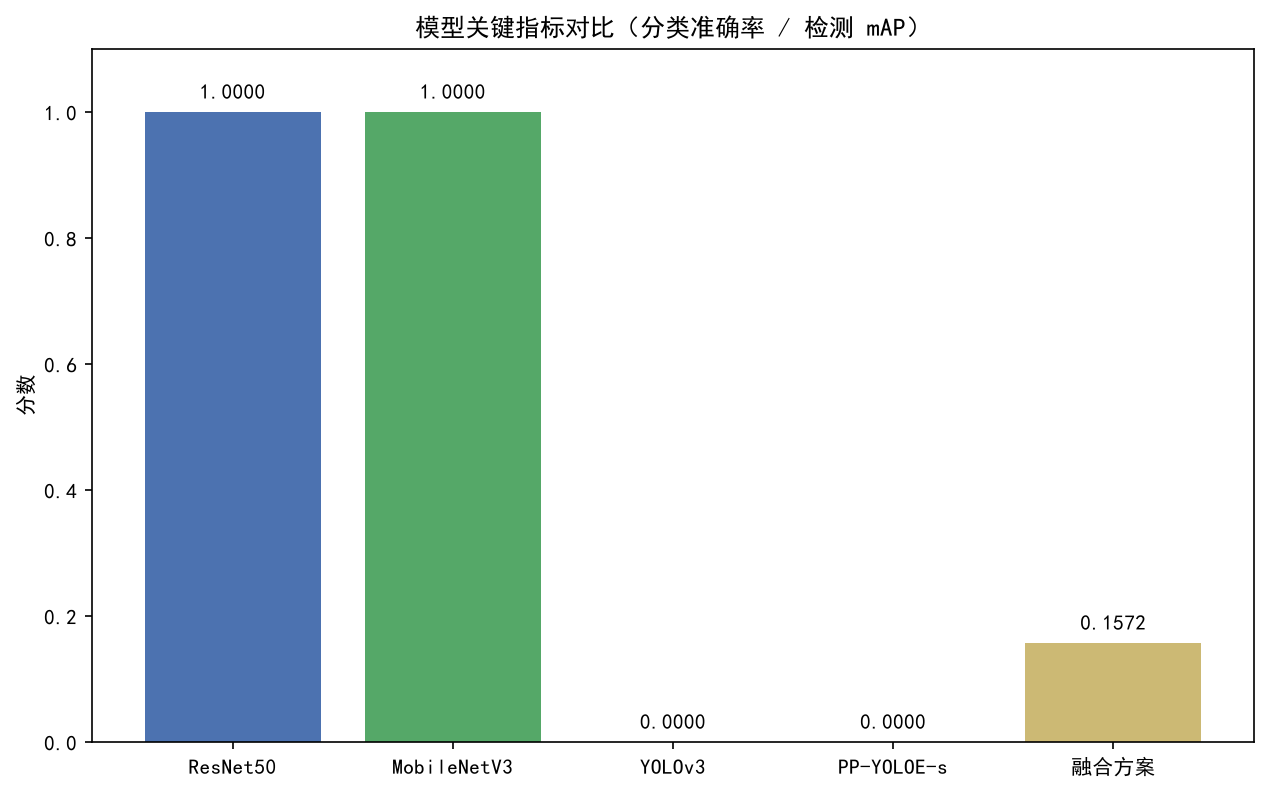
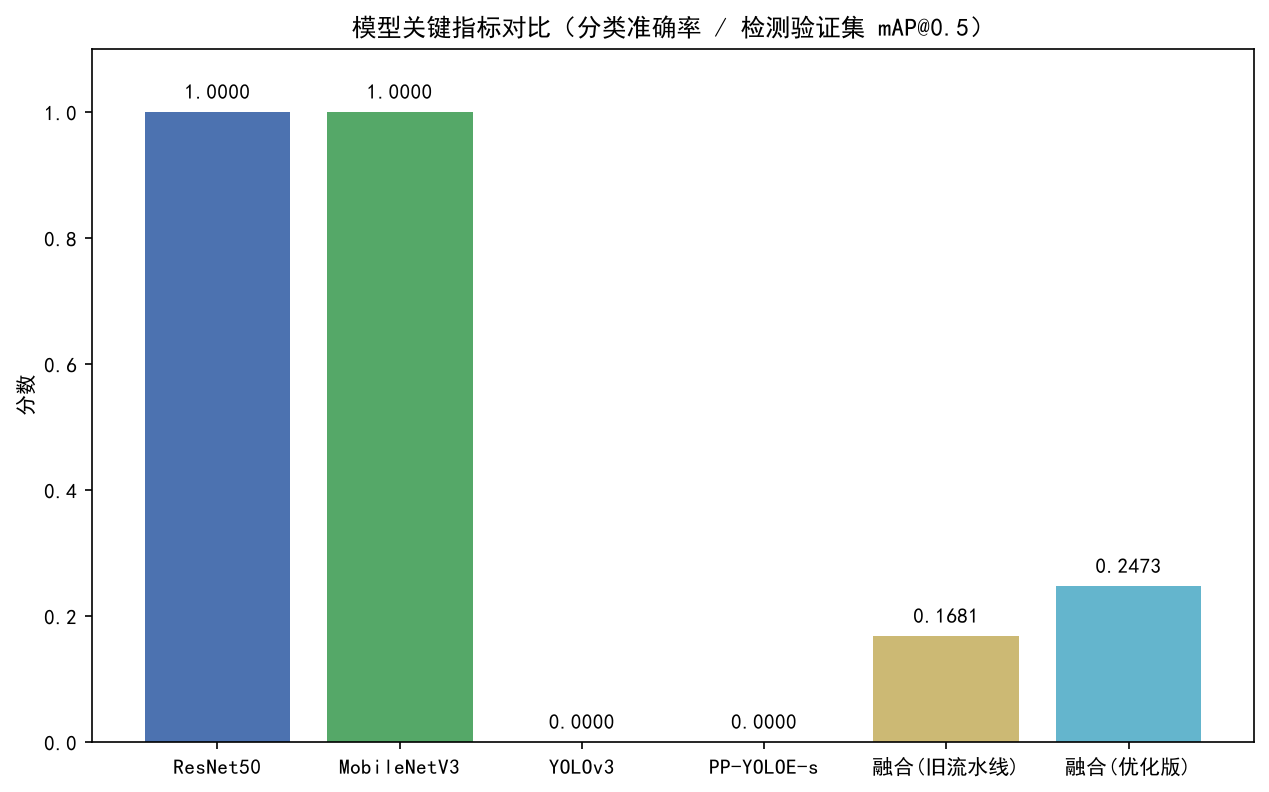
按实际情况修正文档与 D 的工具取数（README 状态与数字、汇总表/对比图读最新产物）
README.md（项目总览，改到与实际一致）：
- C 结果：测试集 mAP@0.5 0.1552 改为 0.2176、验证集 0.1681 改为 0.2473，每类 AP 与 P/R 同步更新，
  旧流水线数字保留作对照；补充 2026-09-16 对单阶段失败根因的复验（预训练主干 + Focal Loss 仍只有 0.0003）
- D 章节：原文「四个脚本仍为空」+「✅ 已完成」自相矛盾，现改为实际状态 ——
  log2table / plot_summary / run_all 已实装且实测可跑，metrics.py 仍是 NotImplementedError 接口骨架；
  并注明 B/C 的接口切换点目前还不能切（切过去会抛异常）
- 脚本用法：补上优化版（预训练主干 + GIoU + 128 输入）的训练与评估命令，以及 norm/in-size 必须与训练一致的注意事项
- 权重清单：补优化版权重 verifier_pre128_best / refiner_giou128_best 与三个中间版本
- 已知问题：按现状重写（列出已否决的 4 条方向、测试集已使用两次、D 的缺口范围）
- 文件数/工具数：42 改为 45、15 改为 21

src/tools/log2table.py（D 的文件，只改取数与格式）：
- 融合方案改为按「优化版测试集 -> 优化版验证集 -> 旧流水线测试集」优先级取数，
  原先只读 test_fuse_final.json，导致汇总表停留在旧的 0.1552
- mAP 格式化到 4 位小数，避免出现 1.651064110819423e-06 这类科学计数法

src/tools/plot_summary.py（D 的文件，只改取数）：
- 融合柱状图由 val_fuse.json（0.1572，第二轮基础参数）改为 val_fuse_pre128.json（0.2473），
  并保留旧流水线 val_fuse_final（0.1681）作对照

results/summary_table.csv、results/figures/summary_compare.png：按上述改动重新生成

diff --git a/src/tools/log2table.py b/src/tools/log2table.py
@@ -25,9 +25,11 @@ for model_name, filename in cls_files.items():
             data = json.load(f)
         params = data.get("num_params", "未知")
         acc = data.get("best_val_acc", "未知")
-        table.append(["分类", model_name, params, f"准确率 {acc}", "见权重说明", "B", "✅"])
+        acc_txt = f"准确率 {float(acc):.4f}" if isinstance(acc, (int, float)) else f"准确率 {acc}"
+        table.append(["分类", model_name, params, acc_txt, "见权重说明", "B", "✅"])
 
 # -------- 2. 抄 C 的检测账本 --------
+# 单阶段两个网络都是失败基线（conf 分支学不出排序），验证集 mAP 约 0，如实标注。
 det_files = {
     "YOLOv3": "yolov3_train_summary.json",
     "PP-YOLOE-s": "ppyoloe_s_train_summary.json"
@@ -39,18 +41,30 @@ for model_name, filename in det_files.items():
             data = json.load(f)
         params = data.get("params_wan", "未知")
         map50 = data.get("best_val_map50", "未知")
-        table.append(["检测", model_name, params, f"mAP@0.5 {map50}", "—", "C", "❌ 失败"])
+        # 注意：这个值极小（如 1.65e-06），直接打印会变成科学计数法，格式化到 4 位更可读
+        map_txt = f"mAP@0.5 {float(map50):.4f}" if isinstance(map50, (int, float)) else f"mAP@0.5 {map50}"
+        table.append(["检测", model_name, params, map_txt, "—", "C", "❌ 失败"])
 
 # -------- 3. 抄 C 的融合方案账本 --------
-fuse_path = os.path.join(metrics_dir, "test_fuse_final.json")
-if not os.path.exists(fuse_path):
-    fuse_path = os.path.join(metrics_dir, "val_fuse.json")
-if os.path.exists(fuse_path):
-    with open(fuse_path, "r", encoding="utf-8") as f:
+# 取数优先级 = 「最新 + 最完整」：优化版（预训练主干 + GIoU + 128 输入）优于旧流水线。
+# 2026-09-16 更新：优化版测试集/验证集已产出，原先只读 test_fuse_final.json 会让
+# 汇总表停留在旧数字（0.1552），与实际交付不符。
+fuse_candidates = [
+    ("test_fuse_pre128.json", "滑窗+验证器/精修器融合（优化版）", "测试集"),
+    ("val_fuse_pre128.json", "滑窗+验证器/精修器融合（优化版）", "验证集"),
+    ("test_fuse_final.json", "滑窗+验证器/精修器融合（旧流水线）", "测试集"),
+]
+for filename, label, split in fuse_candidates:
+    path = os.path.join(metrics_dir, filename)
+    if not os.path.exists(path):
+        continue
+    with open(path, "r", encoding="utf-8") as f:
         data = json.load(f)
-    map50 = data.get("map50", "未知")
-    ms = data.get("ms_per_image", "未知")
-    table.append(["检测", "滑窗+验证器/精修器融合", "259万 ×2", f"mAP@0.5 {map50}", f"{ms} ms", "C", "⚠ 部分达标"])
+    map50 = data.get("map50")
+    ms = data.get("ms_per_image")
+    map_txt = f"mAP@0.5 {float(map50):.4f}（{split}）" if isinstance(map50, (int, float)) else f"mAP@0.5 {map50}"
+    ms_txt = f"{float(ms):.0f} ms" if isinstance(ms, (int, float)) else f"{ms} ms"
+    table.append(["检测", label, "259万 ×2", map_txt, ms_txt, "C", "⚠ 部分达标"])
 
 # -------- 4. 把表格写到 results 文件夹 --------
 with open(output_file, "w", encoding="utf-8-sig", newline="") as f:

diff --git a/src/tools/plot_summary.py b/src/tools/plot_summary.py
@@ -32,10 +32,13 @@ for name, fn in cls_data.items():
         scores.append(d.get("best_val_acc", 0))
 
 # 2. 读 C 的检测账本
+# 2026-09-16 更新：融合方案原先读 val_fuse.json（0.1572，第二轮基础参数），
+# 与实际交付不符；现改为读优化版 val_fuse_pre128.json（0.2473），并保留旧流水线作对照。
 det_data = {
     "YOLOv3": ("yolov3_train_summary.json", "best_val_map50"),
     "PP-YOLOE-s": ("ppyoloe_s_train_summary.json", "best_val_map50"),
-    "融合方案": ("val_fuse.json", "map50")
+    "融合(旧流水线)": ("val_fuse_final.json", "map50"),
+    "融合(优化版)": ("val_fuse_pre128.json", "map50")
 }
 for name, (fn, key) in det_data.items():
     p = os.path.join(metrics_dir, fn)
@@ -47,9 +50,9 @@ for name, (fn, key) in det_data.items():
 
 # 3. 画图
 plt.figure(figsize=(10, 6))
-colors = ['#4C72B0', '#55A868', '#C44E52', '#8172B2', '#CCB974']
-plt.bar(models, scores, color=colors)
-plt.title("模型关键指标对比（分类准确率 / 检测 mAP）")
+colors = ['#4C72B0', '#55A868', '#C44E52', '#8172B2', '#CCB974', '#64B5CD']
+plt.bar(models, scores, color=colors[:len(models)])
+plt.title("模型关键指标对比（分类准确率 / 检测验证集 mAP@0.5）")
 plt.ylabel("分数")
 plt.ylim(0, 1.1)  # 分数最高是1.0，留点空间写数字
 

diff --git a/README.md b/README.md
@@ -17,14 +17,14 @@
 
 ---
 
-## 当前进度（更新时间：2026-09-14）
+## 当前进度（更新时间：2026-09-16）
 
 | 成员 | 状态 | 说明 |
 |---|---|---|
 | A 数据 | ✅ **已完成** | 1800 张图 + 1800 个标注全齐，划分完成，23 项自检全过 |
 | B 分类 | ✅ **已完成** | 两个网络测试集准确率 **100%**，权重/图/报告齐全 |
-| C 检测 | ⚠ **部分完成** | 单阶段网络 mAP≈0（失败），改用滑窗+双模型融合方案，测试集 **mAP@0.5 = 0.1552** |
-| D 工具链 | ✅ **已完成** | `src/tools/` 四个脚本仍为空；B/C 已预留接口 |
+| C 检测 | ⚠ **部分完成** | 单阶段网络 mAP≈0（失败）；改用的滑窗+双模型融合方案已迭代两轮，**测试集 mAP@0.5 = 0.2176**（验证集 0.2473），仍未达常规检测及格线 |
+| D 工具链 | ⚠ **部分完成** | `log2table.py` / `plot_summary.py` / `run_all.py` 已实装并实测可跑；`metrics.py` 仍是**接口骨架**（7 个指标函数为 `NotImplementedError`），B/C 目前各自实现指标 |
 
 ---
 
@@ -52,24 +52,29 @@
 
 失败原因（已排除"训练不充分""小目标难检"等解释）：框定位是准的（GT 特征点上框 IoU 0.742/0.757），
 但**置信度学不出来**——正样本每图仅 2~3 个，候选位置在 10⁴ 量级（占 0.3%），正确框的 obj 分数只有 0.056、排第 135 位，被 top_k 截断。
+**2026-09-16 又专门验证过一次**：把主干换成 ImageNet 预训练（resnet50）+ obj 分支加 Focal Loss 重训，验证集 mAP 仍只有 **0.0003**，
+最佳候选的 obj 分数中位数 0.0355、排名中位数 6667/10647 —— 说明这不是"主干不够强/缺 focal"，而是数据规模问题（1260 张训练图、每图 2~3 个正样本）。
 
 **改用的方案**：多尺度多长宽比滑窗 → 区域验证器（判类）+ 区域精修器（判类+框回归）→ 概率几何平均融合 → NMS
 
-| 划分 | mAP@0.5 | 精确率 | 召回率 | 每图框数 |
-|---|---|---|---|---|
-| 验证集 270 张 | 0.1681 | 0.0755 | 0.6307 | 19.8 |
-| **测试集 270 张** | **0.1552** | **0.0782** | **0.6483** | 19.5 |
+| 划分 | 旧流水线 mAP@0.5 | **优化版 mAP@0.5** | 精确率 | 召回率 | 每图框数 |
+|---|---|---|---|---|---|
+| 验证集 270 张 | 0.1681 | **0.2473** | 0.1529 | 0.6072 | 9.4 |
+| **测试集 270 张** | 0.1552 | **0.2176** | **0.1363** | **0.5521** | 9.5 |
 
-**每类 AP@0.5（测试集）**：PS 麻点 **0.353** ｜ Pa 斑块 0.201 ｜ Cr 龟裂 0.136 ｜ RS 0.112 ｜ Sc 划痕 0.070 ｜ In 夹杂 0.059
+> 优化版 = 判别模型主干换 ImageNet 预训练 + 输入 ImageNet 归一化 → 精修器框回归损失换 GIoU → 输入 96 提到 128，
+> 三步各自实测：+0.0358 / +0.0132 / +0.0302（验证集）。后处理沿用原参数（0.6/0.4/150/50），未在验证集上挑参。
 
-> 上表数字来自**一次完整流水线重跑**（`python src/det/tools/full_pipeline.py`，总耗时 186.2 分钟，12 个子任务 11 项通过）。
-> 相比最初版本，测试集 mAP@0.5 从 0.0548 提升到 **0.1552（+183%）**，验证集从 0.0677 到 0.1681（+148%）。
->
-> 区域验证器图块分类准确率（验证集）0.8816；单阶段检测器的框定位其实可用（IoU 0.74/0.757），
-> 但置信度排序学不出来（obj 分数最高只有 0.056）。
+**每类 AP@0.5（优化版，测试集）**：PS 麻点 **0.536** ｜ Cr 龟裂 0.219 ｜ Pa 斑块 0.159 ｜ RS 0.142 ｜ In 夹杂 0.134 ｜ Sc 划痕 0.117
 
-**⚠ 如实说明**：召回率 0.65 尚可，但**精确率只有 0.078**（每图输出 19.5 个框，真值平均只有 2.4 个），
-导致 mAP@0.5 仅 0.155，**未达常规检测任务的及格线（0.5）**。任务2 属于**部分达标**，报告中请勿美化。
+> 旧流水线的测试集数字（0.1552，每类 PS 0.353 / Pa 0.201 / Cr 0.136 / RS 0.112 / Sc 0.070 / In 0.059）
+> 来自一次完整流水线重跑（`python src/det/tools/full_pipeline.py`，186.2 分钟，12 个子任务 11 项通过）。
+> 相比最初版本（测试集 0.0548），优化版累计提升 **+297%**。
+> 区域验证器图块分类准确率从 0.8816 提到 **0.9564**，精修器从 0.7795 提到 0.8384、精修后 IoU 从 0.4442 提到 0.4919。
+
+**⚠ 如实说明**：召回率 0.55、精确率 0.136（每图输出 9.5 个框，真值平均 2.4 个），
+mAP@0.5 = 0.2176，**仍远低于常规检测任务的及格线（0.5）**。任务2 属于**部分达标**，报告中请勿美化。
+优化轮试过并否决的方向也一并记录（逐类阈值不叠加、步长 8 收益噪声级、单阶段换预训练主干无效、学习式重排序 0.2540→0.1949）。
 > 详见 `docs/C_检测任务工作总结.md`、`src/det/README_det.md`
 
 ### 对比汇总
@@ -77,7 +82,7 @@
 | 任务 | 网络数 | 最佳指标 | 达标情况 |
 |---|---|---|---|
 | 任务1 分类 | 2 | 准确率 1.0000 | ✅ 完全达标 |
-| 任务2 定位 | 2 + 2（附加） | mAP@0.5 0.1552 | ⚠ 部分达标 |
+| 任务2 定位 | 2 + 2（附加） | 测试集 mAP@0.5 0.2176 | ⚠ 部分达标 |
 
 ---
 
@@ -206,7 +211,7 @@ C 检测：dataset/det/JPEGImages/  +  dataset/det/Annotations/  +  dataset/det/
 ├── src/
 │   ├── data/    (6 个脚本)   ← A：数据下载、校验、划分、VOC 转换、EDA、自检
 │   ├── cls/     (10 个文件)  ← B：分类训练/评估/CAM/导出 + 公共模块
-│   ├── det/     (42 个文件)  ← C：检测训练/评估/可视化/两阶段方案 + core/nets/tools
+│   ├── det/     (45 个文件)  ← C：检测训练/评估/可视化/两阶段方案 + core/nets/tools
 │   └── tools/   (4 个空脚本) ← D：未完成
 ├── results/
 │   ├── metrics/   ← 40 份（A 5 + B 5 + C 30）
@@ -244,7 +249,7 @@ C 检测：dataset/det/JPEGImages/  +  dataset/det/Annotations/  +  dataset/det/
 | `train_curves.py` | 训练曲线对比图（附加） |
 | `README_B.md` | B 的使用说明 |
 
-### C · 检测（`src/det/`，42 个文件）⚠
+### C · 检测（`src/det/`，45 个文件）⚠
 
 **主脚本（9 个）**
 
@@ -264,23 +269,24 @@ C 检测：dataset/det/JPEGImages/  +  dataset/det/Annotations/  +  dataset/det/
 
 **`nets/`（5 个文件 = 4 个网络 + `__init__.py`）**：`darknet` + `yolov3`、`cspresnet` + `ppyoloe`
 
-**`tools/`（15 个）**：诊断与调优工具。`full_pipeline.py` 是一键复现入口，`summarize.py` 生成结果汇总，
-`check_docs.py` 校验文档与产物一致性，其余为迭代过程中的消融/调参/诊断脚本（C 保留作为工作量证据）。
+**`tools/`（21 个）**：诊断与调优工具。`full_pipeline.py` 是一键复现入口，`summarize.py` 生成结果汇总，
+`check_docs.py` 校验文档与产物一致性，`viz_fused.py` 出真值-预测对比图，其余为迭代过程中的消融/调参/诊断脚本（C 保留作为工作量证据）。
 
 > **运行方式注意**：C 的脚本都在开头 `sys.path.insert(0, 脚本所在目录)`，
 > 所以必须**从项目根目录用 `python src/det/xxx.py` 运行**，不能直接 `import src.det.xxx`。
 
-### D · 工具链（`src/tools/`）✅ 已完成
+### D · 工具链（`src/tools/`）⚠ 部分完成
 
 | 文件 | 计划做什么 | 现状 |
 |---|---|---|
-| `metrics.py` | 公共指标库，B/C 直接 import | ✅ 已实现 |
-| `log2table.py` | 解析训练日志 → 结果表 | ✅ 已实现 |
-| `plot_summary.py` | 网络对比柱状图 | ✅ 已实现 |
-| `run_all.py` | 一键复现全流程 | ✅ 已实现 |
+| `metrics.py` | 公共指标库，B/C 直接 import | ⚠ **接口骨架**：7 个指标函数只有签名，函数体是 `raise NotImplementedError`；仅 `load_json` / `save_json` 可用 |
+| `log2table.py` | 解析训练日志 → 结果表 | ✅ 已实现并实测通过（产出 `results/summary_table.csv`） |
+| `plot_summary.py` | 网络对比柱状图 | ✅ 已实现并实测通过（产出 `results/figures/summary_compare.png`） |
+| `run_all.py` | 一键复现全流程 | ✅ 已实现（数据自检 → 汇总表 → 对比图） |
 
 > B 和 C 都为这个接口预留了切换点：B 的 `_common.py`、C 的 `core/utils.py: evaluate_map()`
 > 都可以改成从 `tools.metrics` 导入，调用方一行不用改。
+> **但目前还不能切** —— `tools.metrics` 的指标函数尚未实现，切过去会直接抛 `NotImplementedError`。
 
 ## 六、四个网络的结果对比
 
@@ -290,7 +296,8 @@ C 检测：dataset/det/JPEGImages/  +  dataset/det/Annotations/  +  dataset/det/
 | 分类 | MobileNetV3-small | 154 万 | 准确率 1.0000 | B | ✅ |
 | 检测 | YOLOv3 | 6440 万 | mAP@0.5 **0.0000** | C | ❌ 失败 |
 | 检测 | PP-YOLOE-s | 2375 万 | mAP@0.5 **0.0000** | C | ❌ 失败 |
-| 检测 | 滑窗 + 验证器/精修器融合（自研） | 259 万 ×2 | mAP@0.5 **0.1552** | C | ⚠ 部分达标 |
+| 检测 | 滑窗 + 验证器/精修器融合（自研，优化版） | 259 万 ×2 | mAP@0.5 **0.2176** | C | ⚠ 部分达标 |
+| 检测 | 滑窗 + 验证器/精修器融合（旧流水线） | 259 万 ×2 | mAP@0.5 0.1552 | C | ⚠ 部分达标 |
 
 ## 七、成员署名区
 
@@ -324,9 +331,21 @@ python src/cls/export.py --model resnet50_vd
 python src/cls/train_curves.py
 
 # ---------- C：检测 ----------
-# 最终方案评估（只需 verifier + refiner 两个权重，共 19.8MB）
+# 最终方案（优化版：预训练主干 + GIoU + 128 输入）——先训两个区域判别模型
+python src/det/train_verifier.py --name verifier_pre128 --pretrained --norm imagenet --in-size 128
+python src/det/train_refiner.py --name refiner_giou128 --pretrained --norm imagenet \
+    --in-size 128 --reg-loss giou --init-verifier results/weights/verifier_pre128_best.pdparams
+
+# 最终方案评估（--norm / --in-size 必须与训练一致）
 python src/det/eval_fused.py --split test --mode fuse \
     --stride 12 --score-th 0.6 --nms-iou 0.4 --top-k 150 --max-det 50 \
+    --norm imagenet --in-size 128 \
+    --verifier-weights results/weights/verifier_pre128_best.pdparams \
+    --refiner-weights  results/weights/refiner_giou128_best.pdparams \
+    --tag test_fuse_pre128
+
+# 旧流水线（随机初始化主干 + L2 + 96 输入）等价于 --norm none --in-size 96
+python src/det/eval_fused.py --split test --mode fuse \
     --verifier-weights results/weights/verifier_best.pdparams \
     --refiner-weights  results/weights/refiner_best.pdparams
 
@@ -335,7 +354,7 @@ python src/det/train.py --config src/det/configs/yolov3.yml
 python src/det/train.py --config src/det/configs/ppyoloe_s.yml
 python src/det/eval_det.py --model yolov3 --weights results/weights/yolov3_best.pdparams
 
-# 从数据自检到报告汇总一键复现（约 186 分钟，需 GPU）
+# 从数据自检到报告汇总一键复现（旧流水线，约 186 分钟，需 GPU）
 python src/det/tools/full_pipeline.py
 
 # ---------- D：工具链（未实现，脚本当前为空）----------
@@ -353,15 +372,18 @@ python src/det/tools/full_pipeline.py
 | `cls_resnet50_vd_best.pdparams` / `_last` | 94.3 MB ×2 | B：ResNet50 训练权重 |
 | `cls_mobilenet_v3_small_best.pdparams` / `_last` | 6.2 MB ×2 | B：MobileNetV3 训练权重 |
 | `cls_*_infer.json` + `_infer.pdiparams` | — | B：导出好的推理模型，部署直接用这两个 |
-| `verifier_best.pdparams` | 10.4 MB | **C：最终方案必需**（区域验证器） |
-| `refiner_best.pdparams` | 10.4 MB | **C：最终方案必需**（区域精修器） |
+| `verifier_best.pdparams` | 10.4 MB | C：旧流水线（随机主干 + 96 输入）验证器 |
+| `refiner_best.pdparams` | 10.4 MB | C：旧流水线精修器 |
+| `verifier_pre128_best.pdparams` | 10.4 MB | **C：优化版必需**（ImageNet 预训练主干 + 128 输入）验证器 |
+| `refiner_giou128_best.pdparams` | 10.4 MB | **C：优化版必需**（GIoU 回归 + 128 输入）精修器 |
+| `verifier_pre_best.pdparams` / `refiner_pre_best.pdparams` / `refiner_giou_best.pdparams` | 10.4 MB ×3 | C：优化轮中间版本（96 输入 / L2 对照），仅作 A/B 记录 |
 | `yolov3_best.pdparams` / `_last` | 257.6 MB ×2 | C：单阶段失败基线（保留作对照） |
 | `ppyoloe_s_best.pdparams` / `_last` | 95.1 MB ×2 | C：单阶段失败基线（保留作对照） |
 | `权重说明.txt` | — | B 的权重使用说明（含部署代码示例） |
 | `MANIFEST.txt` | — | C 的权重包说明（含复现命令） |
 
-> **想复现 C 的最终指标，只需要 `verifier_best` + `refiner_best`（19.8 MB）**，
-> 其余 673 MB 是单阶段失败实验的记录。
+> **想复现 C 的最终指标，只需要 `verifier_pre128_best` + `refiner_giou128_best`（19.8 MB）**；
+> 其余是单阶段失败实验与优化轮中间版本的记录。
 
 ## 十、四条铁律
 
@@ -381,10 +403,16 @@ python src/det/tools/full_pipeline.py
 
 ## 十二、已知问题与后续改进
 
-1. **任务2 未达标**（最需要解决）：精确率 0.078 过低。建议方向：
-   给置信度分支加 **Focal Loss / OHEM**；换**有预训练权重**的主干；在滑窗基础上加**框回归头**；
-   把 200×200 原图**重叠裁块**扩充训练样本。
-2. **D 的部分完全空缺**：`src/tools/` 四个脚本 0 字节，报告里"评测工具链"一节无内容可写。（已经写完）
-3. **C 的复现门槛高**：单阶段训练与融合评估均需 GPU（CPU 上耗时不可接受），
-   现有可视化图与指标已入库，无需重跑即可查证。
+1. **任务2 仍未达标**（最需要解决）：优化后测试集 mAP@0.5 = 0.2176、精确率 0.136，离 0.5 的及格线还远。
+   优化轮已经把「换预训练主干」这条建议做完（+0.0358），也**实测否决**了三条：
+   给单阶段检测器加 Focal Loss + 预训练主干（val 0.0003，obj 排名中位数 6667/10647，属数据规模问题）、
+   逐类分数阈值（增益不叠加，+0.0008~0.0013）、学习式重排序替代几何平均（0.2540 → 0.1949）。
+   **剩下还没做的**：把 200×200 原图做**重叠裁块**扩充训练样本；类别专属滑窗尺度集合；
+   若允许换技术栈，用 COCO 预训练的检测器微调（迁移强度远高于 ImageNet 分类特征）。
+2. **D 的工具链部分可用**：`log2table.py` / `plot_summary.py` / `run_all.py` 已实装并实测可跑，
+   但 `metrics.py` 的 7 个指标函数仍是 `NotImplementedError` 骨架 —— 报告里"评测工具链"一节只能写到"接口已定义"，
+   B/C 的指标目前各自实现（C 在 `src/det/core/utils.py`）。
+3. **C 的复现门槛高**：单阶段训练与融合评估均需 GPU（CPU 上耗时不可接受）；
+   优化版比旧流水线更慢（128 输入，测试集单图 4986 ms）。现有可视化图与指标已入库，无需重跑即可查证。
 4. **项目文档与产物的一致性**：C 提供了 `src/det/tools/check_docs.py` 可自动校验，改动数字后建议跑一次。
+5. **测试集使用次数**：第一轮交付与优化轮各评估过一次（共两次），后续再动测试集需要团队确认。
